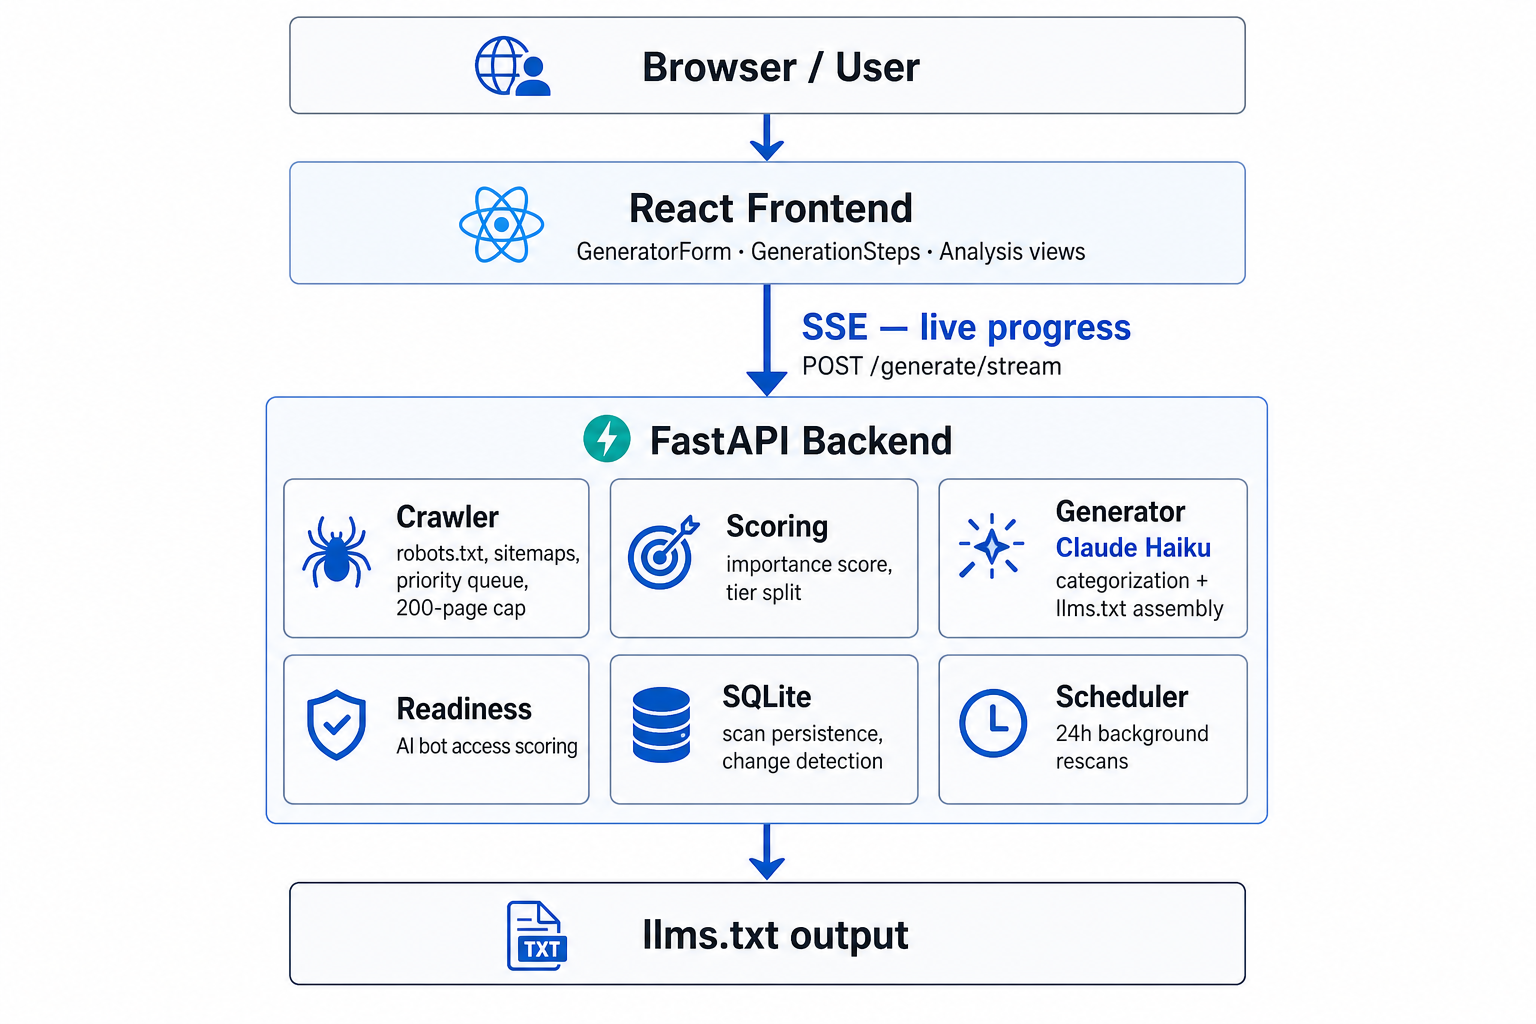
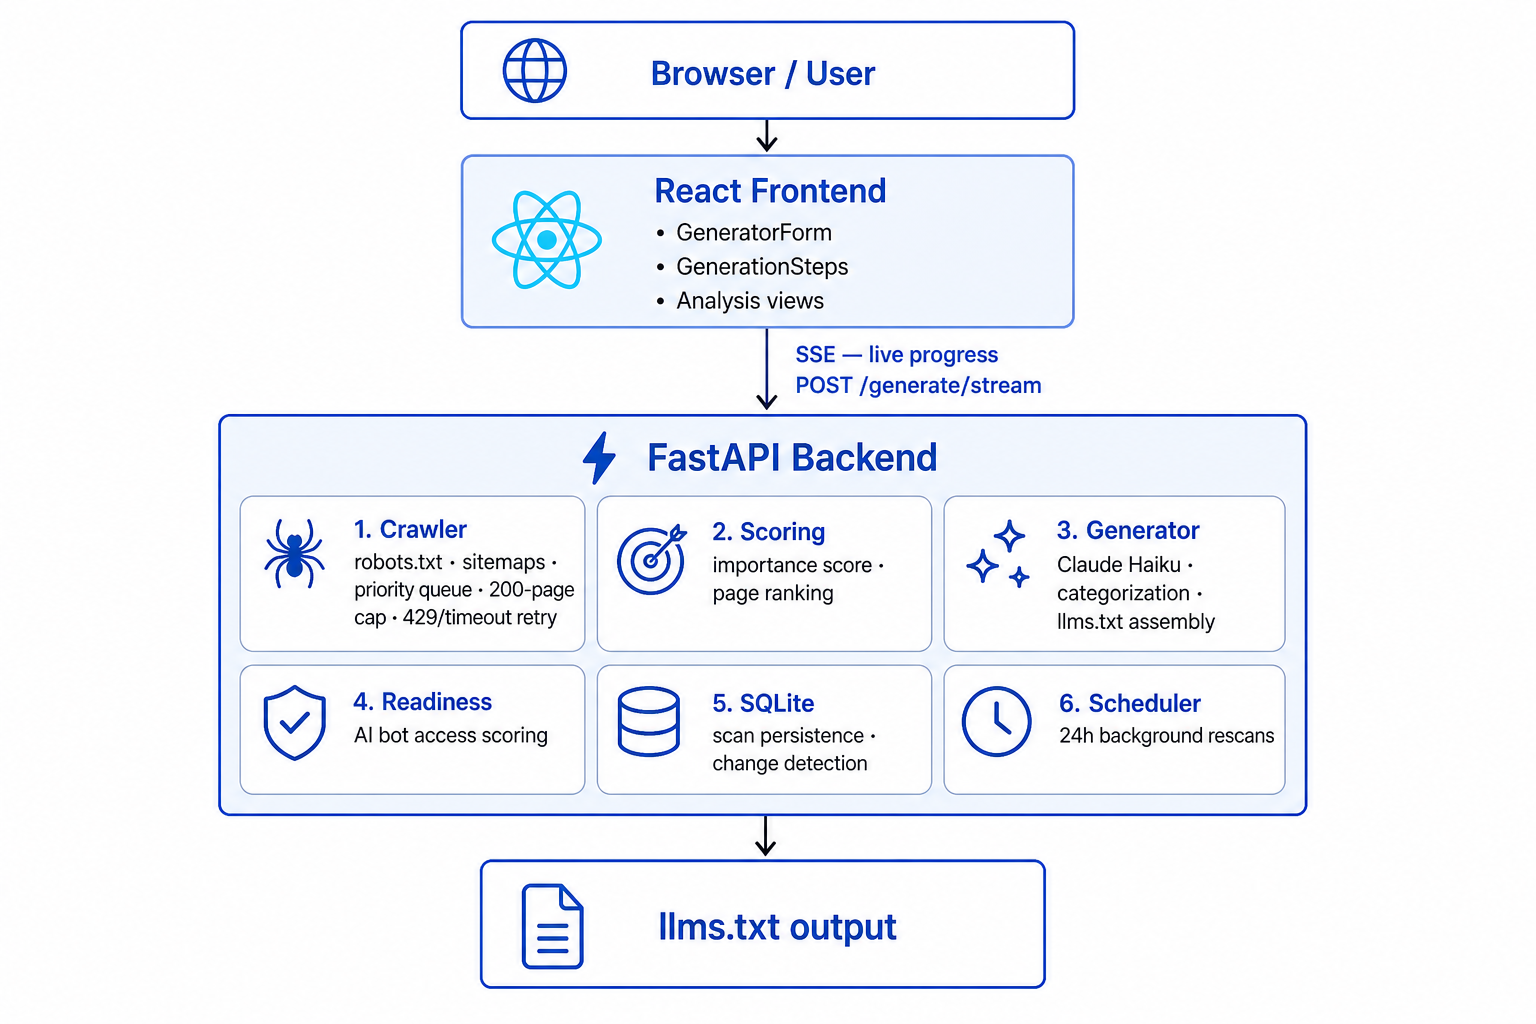
Document pipeline, database, and design rationale for take-home demo. Add purpose, implementation notes, limitations, database schema, 429 retry flow, and an updated architecture diagram.

diff --git a/backend/README.md b/backend/README.md
@@ -11,11 +11,11 @@ flowchart TD
   input[Input URL] --> normalize[Normalize to scheme://hostname]
   normalize --> robots[Fetch robots.txt]
   robots --> sitemap[Discover sitemaps]
-  sitemap --> crawl[Priority crawl max 200 pages]
+  sitemap --> crawl[Priority crawl max 200 pages — 429/timeout retry]
   crawl --> readiness[AI readiness score]
   readiness --> persist[Save scan to SQLite]
-  persist --> tier[Rank and split tiers]
-  tier --> claude[Claude Haiku categorizes Tier 1]
+  persist --> rank[Rank pages by importance]
+  rank --> claude[Claude Haiku categorizes top 100]
   claude --> optional[Add Optional section]
   optional --> output[Assemble llms.txt]
 ```
@@ -44,20 +44,21 @@ Sitemaps are the primary URL source when available. Discovery follows this order
 | 2 | Fallback to `/sitemap.xml` and `/sitemap_index.xml` | Large sites often use `sitemap_index.xml` (a sitemap of sitemaps) instead of a single file. |
 | 3 | Merge priorities across sitemaps | Same URL in multiple sitemaps → keep the **higher** `<priority>` value (`_merge_sitemap_priorities` in `crawler.py`). |
 | 4 | Seed crawl queue | Top 150 sitemap URLs by pre-crawl score enter the priority queue; BFS link discovery fills gaps. |
+| 5 | Guess common doc paths | Only when the sitemap has **fewer than 20 URLs** — seed paths like `/docs` and `/getting-started` so doc-heavy sites without a sitemap still get covered. Skipped when the sitemap is already rich to avoid wasting crawl budget on speculative 404s. |
 
-Nested sitemap indexes are followed recursively (depth and count capped). Bulk sitemaps (video/model indexes) are deprioritized or skipped to protect the 200-page crawl budget.
-
-If no sitemap is available, the crawler falls back to BFS from the homepage.
+Nested sitemap indexes are followed recursively (depth and count capped). Bulk sitemaps (video/model indexes) are deprioritized or skipped to protect the 200-page crawl budget. Optional-pattern URLs (`/privacy`, `/terms`, …) are guessed in the post-crawl reserve only when the sitemap did not surface them.
 
 ### Crawl strategy
 
-1. **Normalize** the input URL to a root origin (`scheme://hostname`).
-2. **Discover sitemaps** — read `Sitemap:` URLs from `robots.txt`, then fall back to `/sitemap.xml` and `/sitemap_index.xml`. Nested sitemap indexes are fetched recursively. Seed the crawl queue with discovered `<loc>` entries.
-3. **Fall back to BFS** from the homepage when no sitemap is available, following internal links up to `MAX_DEPTH` (default 3).
-4. For each page, extract **title**, **meta description**, **h1**, and a **content hash** for dedup.
-5. Stop after `MAX_PAGES` (default 200) pages — 185 main crawl + 15 optional reserve.
+After [sitemap discovery](#sitemap-discovery) seeds the queue (homepage, sitemap URLs, and conditional doc-path guesses), the crawler:
 
-Pages are fetched in priority-queue order (highest importance score first, then depth, then URL).
+1. **Priority queue** — fetch pages in score order (importance, then depth, then URL).
+2. **BFS link discovery** — follow internal links from each fetched page up to `MAX_DEPTH` (default 3).
+3. **Extract** title, meta description, h1, and a content hash per page.
+4. **Budget** — stop at `MAX_PAGES` (default 200): 185 main crawl + 15 optional reserve.
+5. **HTTP resilience** — retry **429** (exponential backoff: 1s, 2s) and timeouts (1s) up to `MAX_FETCH_RETRIES` (default 2); skip the page and continue after that.
+
+See [Rate limiting](#rate-limiting) for the retry flow.
 
 ### Page selection (llms.txt pipeline)
 
@@ -65,11 +66,9 @@ Pages are pre-filtered using a deterministic importance score (inbound link coun
 
 1. **Pre-filter** — hard-skip patterns drop auth, search, asset, and noisy query-param URLs.
 2. **Crawl** — up to 200 pages (185 main + 15 optional reserve for legal/press/blog paths).
-3. **Tier 1 (top 100)** — sent to Claude Haiku; model picks **20** most useful pages and groups them into 4–6 site-specific `##` sections.
-4. **Tier 2 (next 15)** — scanned for optional-pattern URLs (legal, press, careers, blog); up to **8** populate `## Optional`.
+3. **Top 100** — sent to Claude Haiku; model picks **30** most useful pages and groups them into 4–6 site-specific `##` sections.
+4. **Optional** — any crawled page outside the top 100 whose URL matches optional patterns (legal, press, careers, blog); up to **8** populate `## Optional`.
 5. **Omitted** — remaining pages are intentionally excluded. llms.txt represents the most important parts of a site, not an exhaustive index.
-
-Pages are ranked by importance score. The top 100 are categorized into main sections. The next tier is scanned for genuinely low-priority pages to populate a capped Optional section. Remaining pages are intentionally omitted.
 
 ### Approaches considered
 
@@ -80,7 +79,7 @@ Pages are ranked by importance score. The top 100 are categorized into main sect
 | Two-pass LLM (pick top N, then group) | Two API calls; slower, less deterministic, still unreliable |
 | **Chosen: code scores → LLM categorizes top tier** | More deterministic, faster, cheaper; LLM only does grouping and naming |
 
-The chosen approach uses a single **Claude Haiku** call for categorization (plus an optional second call for site description when meta tags are missing). Without an API key, a deterministic fallback groups the top 20 pages under a single `Main` section.
+The chosen approach uses a single **Claude Haiku** call for categorization (plus an optional second call for site description when meta tags are missing). Without an API key, a deterministic fallback groups the top 30 pages under a single `Main` section.
 
 ### Deduplication
 
@@ -95,7 +94,19 @@ If robots.txt is missing, returns an error, or times out, we use a **fail-open**
 
 ### Rate limiting
 
-Failed requests are retried up to 2 times with exponential backoff for rate limiting (429) and timeout errors, after which the page is skipped and the crawl continues.
+Each HTTP fetch uses `_fetch_with_retry()` in `crawler.py`. On **429 Too Many Requests**, the crawler waits `2^attempt` seconds (1s, then 2s) and retries up to `MAX_FETCH_RETRIES` (default 2). Timeouts get a 1s pause between attempts. After retries are exhausted, that page is skipped and the crawl continues — the job does not fail outright.
+
+```mermaid
+flowchart LR
+  fetch[HTTP GET] --> ok{Status?}
+  ok -->|2xx| done[Parse page]
+  ok -->|429| wait429["Backoff 2^attempt s"]
+  ok -->|timeout| waitT["Wait 1s"]
+  wait429 --> retry{Retries left?}
+  waitT --> retry
+  retry -->|yes| fetch
+  retry -->|no| skip[Skip page]
+```
 
 ## Setup
 
@@ -248,7 +259,7 @@ Same as `POST /generate`, but streams progress as Server-Sent Events. Used by th
 | `complete` | Full generate response | Generation finished |
 | `error` | `{ "detail": "..." }` | Generation failed |
 
-After each successful generate, scan results are persisted to SQLite. Changes are detected by comparing crawled page hashes to the **generation baseline** (saved when llms.txt was last generated). The home **Updated** badge uses `has_unviewed_changes`, set by the background scheduler when new changes are detected.
+After each successful generate, scan results are persisted to SQLite. See [Database](#database) for schema and change-detection details.
 
 ### Background scheduler
 
@@ -259,6 +270,50 @@ On startup, a background task re-crawls due domains every 24 hours. When content
 | Status | Detail |
 |--------|--------|
 | 422 | Invalid URL, robots blocked, or no pages could be crawled from this site |
+
+## Database
+
+SQLite persistence in `db.py`. Default path: `backend/data/scans.db` (override with `SCAN_DB_PATH`).
+
+### Schema
+
+Two tables split **summary state** from **per-page detail**:
+
+**`domains`** — one row per scanned site
+
+| Column | Purpose |
+|--------|---------|
+| `url`, `display_domain` | Normalized input URL and display name (both unique) |
+| `last_scanned_at` | Timestamp of most recent crawl |
+| `llms_txt` | Generated llms.txt output |
+| `readiness_json` | AI readiness score and category breakdown |
+| `pages_crawled`, `pages_included` | Crawl count vs links in the generated file |
+| `generation_hashes_json` | Snapshot of `{url: content_hash}` when llms.txt was last generated — the **baseline** for change detection |
+| `has_unviewed_changes` | Drives the home page **Updated** badge |
+
+**`pages`** — one row per crawled page
+
+| Column | Purpose |
+|--------|---------|
+| `domain_id` | Foreign key to `domains` |
+| `url` | Normalized page URL |
+| `content_hash` | Hash of page body text |
+| `title`, `meta_description`, `word_count` | Crawl metadata |
+
+**Relationship:** one domain → many pages. `FOREIGN KEY (domain_id) REFERENCES domains(id) ON DELETE CASCADE`. `UNIQUE(domain_id, url)` prevents duplicate page rows.
+
+### Why two tables
+
+`domains` holds the current summary and is updated on every rescan. `pages` must be queried and compared independently — e.g. current crawled hashes vs the generation baseline. Storing everything in one row would make that awkward and grow unbounded.
+
+On `save_scan()`, old `pages` rows for the domain are deleted and replaced with fresh crawl data. The domain row’s readiness and crawl counts are updated; `llms_txt` and `generation_hashes_json` are left unchanged until generation runs again.
+
+### Change detection
+
+1. **`finalize_generation()`** — after llms.txt is generated, copies current page hashes into `generation_hashes_json` and clears `has_unviewed_changes`.
+2. **Next crawl** — `save_scan()` refreshes `pages` with new hashes.
+3. **`detect_changes()`** — compares current `pages` hashes to `generation_hashes_json`. If URLs or hashes differ, content changed since the last generation.
+4. **Scheduler / badge** — on change, `has_unviewed_changes` is set (scheduler auto-regenerates llms.txt when a prior file exists). Opening the analysis page calls `mark_viewed()` to clear the badge.
 
 ## Project layout
 
@@ -274,12 +329,14 @@ backend/
 ├── crawler.py     # Async site crawler (httpx)
 ├── readiness.py   # AI readiness scoring from crawl artifacts
 ├── generator.py   # Claude categorization + llms.txt assembly
-├── scoring.py     # Page importance ranking and tier selection
+├── scoring.py     # Page importance ranking and optional-page selection
 ├── url_utils.py   # URL normalization, dedup, skip filters
 └── constants.py   # Shared limits, patterns, and crawl tuning
 ```
 
 ## Configuration
+
+Defaults are tuned for fast, predictable demo runs during the take-home. Limits live as constants in the files below — raising them scales the pipeline without changing its logic, at the cost of slower crawls and higher LLM usage.
 
 ### `constants.py` — shared limits
 
@@ -287,9 +344,10 @@ backend/
 |----------|---------|-------------|
 | `MAX_DEPTH` | 3 | Maximum BFS link-follow depth |
 | `TIER_1_SIZE` | 100 | Pages sent to Claude for main sections |
-| `TIER_2_CANDIDATES` | 15 | Pages scanned for the Optional section |
+| `OPTIONAL_CRAWL_RESERVE` | 15 | Crawl slots reserved for optional-pattern URLs |
 | `OPTIONAL_CAP` | 8 | Max links in the `## Optional` section |
 | `SITEMAP_SEED_LIMIT` | 150 | Max sitemap URLs seeded into the crawl queue |
+| `DOC_PATH_GUESS_THRESHOLD` | 20 | Guess common doc paths only when merged sitemap URL count is below this |
 | `MAX_SITEMAP_URLS` | 5,000 | Max page URLs parsed from sitemaps |
 | `MAX_NESTED_SITEMAPS` | 8 | Max child sitemap documents fetched |
 | `MAX_SITEMAP_DEPTH` | 3 | Max sitemap index nesting depth |
@@ -307,7 +365,7 @@ backend/
 
 | Constant | Default | Description |
 |----------|---------|-------------|
-| `MAX_PAGES_TO_SELECT` | 20 | Pages Claude picks for main sections |
+| `MAX_PAGES_TO_SELECT` | 30 | Pages Claude picks for main sections |
 | `MAX_LINKS_PER_SECTION` | 15 | Max links per `##` section |
 | `MAX_TOTAL_LINKS` | 100 | Max links across the whole file |
 | `MIN_DESCRIPTION_LENGTH` | 20 | Min description length to include a link |

diff --git a/README.md b/README.md
@@ -4,7 +4,9 @@ Generate spec-compliant [llms.txt](https://llmstxt.org) files from any website U
 
 **Live app:** [https://llms-generator.up.railway.app/](https://llms-generator.up.railway.app/)
 
-The backend crawls a site, scores page importance, categorizes the top pages with **Claude Haiku**, and assembles a structured llms.txt file. The frontend streams live progress over **SSE** (`POST /generate/stream`) so users can follow each pipeline stage as it runs.
+## Purpose
+
+Take-home implementation built for **site owners and marketing teams** who want to understand and improve their site’s AI visibility — the problem Profound is solving. This app is one concrete piece: crawl a site, score AI readiness, and generate an llms.txt that helps models find the right pages. The live app above demos that flow end to end.
 
 ## Usage
 
@@ -17,9 +19,29 @@ The backend crawls a site, scores page importance, categorizes the top pages wit
 
 ![System architecture](./docs/architecture.png)
 
-The React frontend connects to the backend over **SSE** (`POST /generate/stream`), pushing stage updates and crawl counts to the UI in real time — no polling. The FastAPI backend crawls the site, ranks pages with a deterministic importance score, sends the top tier to **Claude Haiku** for categorization, and persists results to SQLite. A background scheduler re-scans domains every 24 hours.
+The React frontend connects to the backend over **SSE** (`POST /generate/stream`), pushing stage updates and crawl counts to the UI in real time — no polling. The FastAPI backend crawls the site (with **429/timeout retry** on HTTP fetches), ranks pages with a deterministic importance score, sends the top tier to **Claude Haiku** for categorization, and persists results to SQLite. A background scheduler re-scans domains every 24 hours.
 
 For pipeline design choices and tradeoffs, see the [Backend README](./backend/README.md). For UI components and data flow, see the [Frontend README](./frontend/README.md).
+
+## Design rationale
+
+The [spec](https://llmstxt.org) defines llms.txt as a **curated index for on-demand lookup** — fetched at inference time when an agent needs to orient on a site, not a pretraining dump or sitemap replacement.
+
+This pipeline matches that intent: deterministic page scoring → Claude Haiku section grouping → ~100 links max, with the rest intentionally omitted. More pages would mean a sitemap dump, which is exactly what llms.txt is not for.
+
+## Implementation
+
+Output follows the required spec structure: **H1 title**, optional **blockquote summary**, then **H2 file lists** (plus an `## Optional` section when low-priority pages match).
+
+The optional **narrative section** (freeform text between the blockquote and the H2 lists) is omitted on purpose. The one-line blockquote already orients the reader; a longer “how to interpret these files” paragraph would be either hardcoded boilerplate with little value, or another LLM call per generation — extra cost and latency for something that does not change which pages get surfaced or how accurate the file is.
+
+## Known limitations
+
+- **200-page crawl cap** — large sites are only partially represented; pages are ranked by importance before selection.
+- **No JavaScript rendering** — the crawler reads raw HTML only; SPAs and client-rendered content may return incomplete data.
+- **Claude improves section quality** — without an API key, a deterministic fallback still works but produces less nuanced groupings.
+
+See [Known Limitations](./backend/README.md#known-limitations) in the backend README for additional edge cases.
 
 ## Project Structure
 
@@ -60,5 +82,5 @@ App runs at `http://localhost:5173`.
 
 ## Documentation
 
-- [Backend README](./backend/README.md) — pipeline, design choices, API endpoints, configuration
+- [Backend README](./backend/README.md) — pipeline, design choices, API endpoints, database schema, configuration
 - [Frontend README](./frontend/README.md) — components, data flow, environment variables